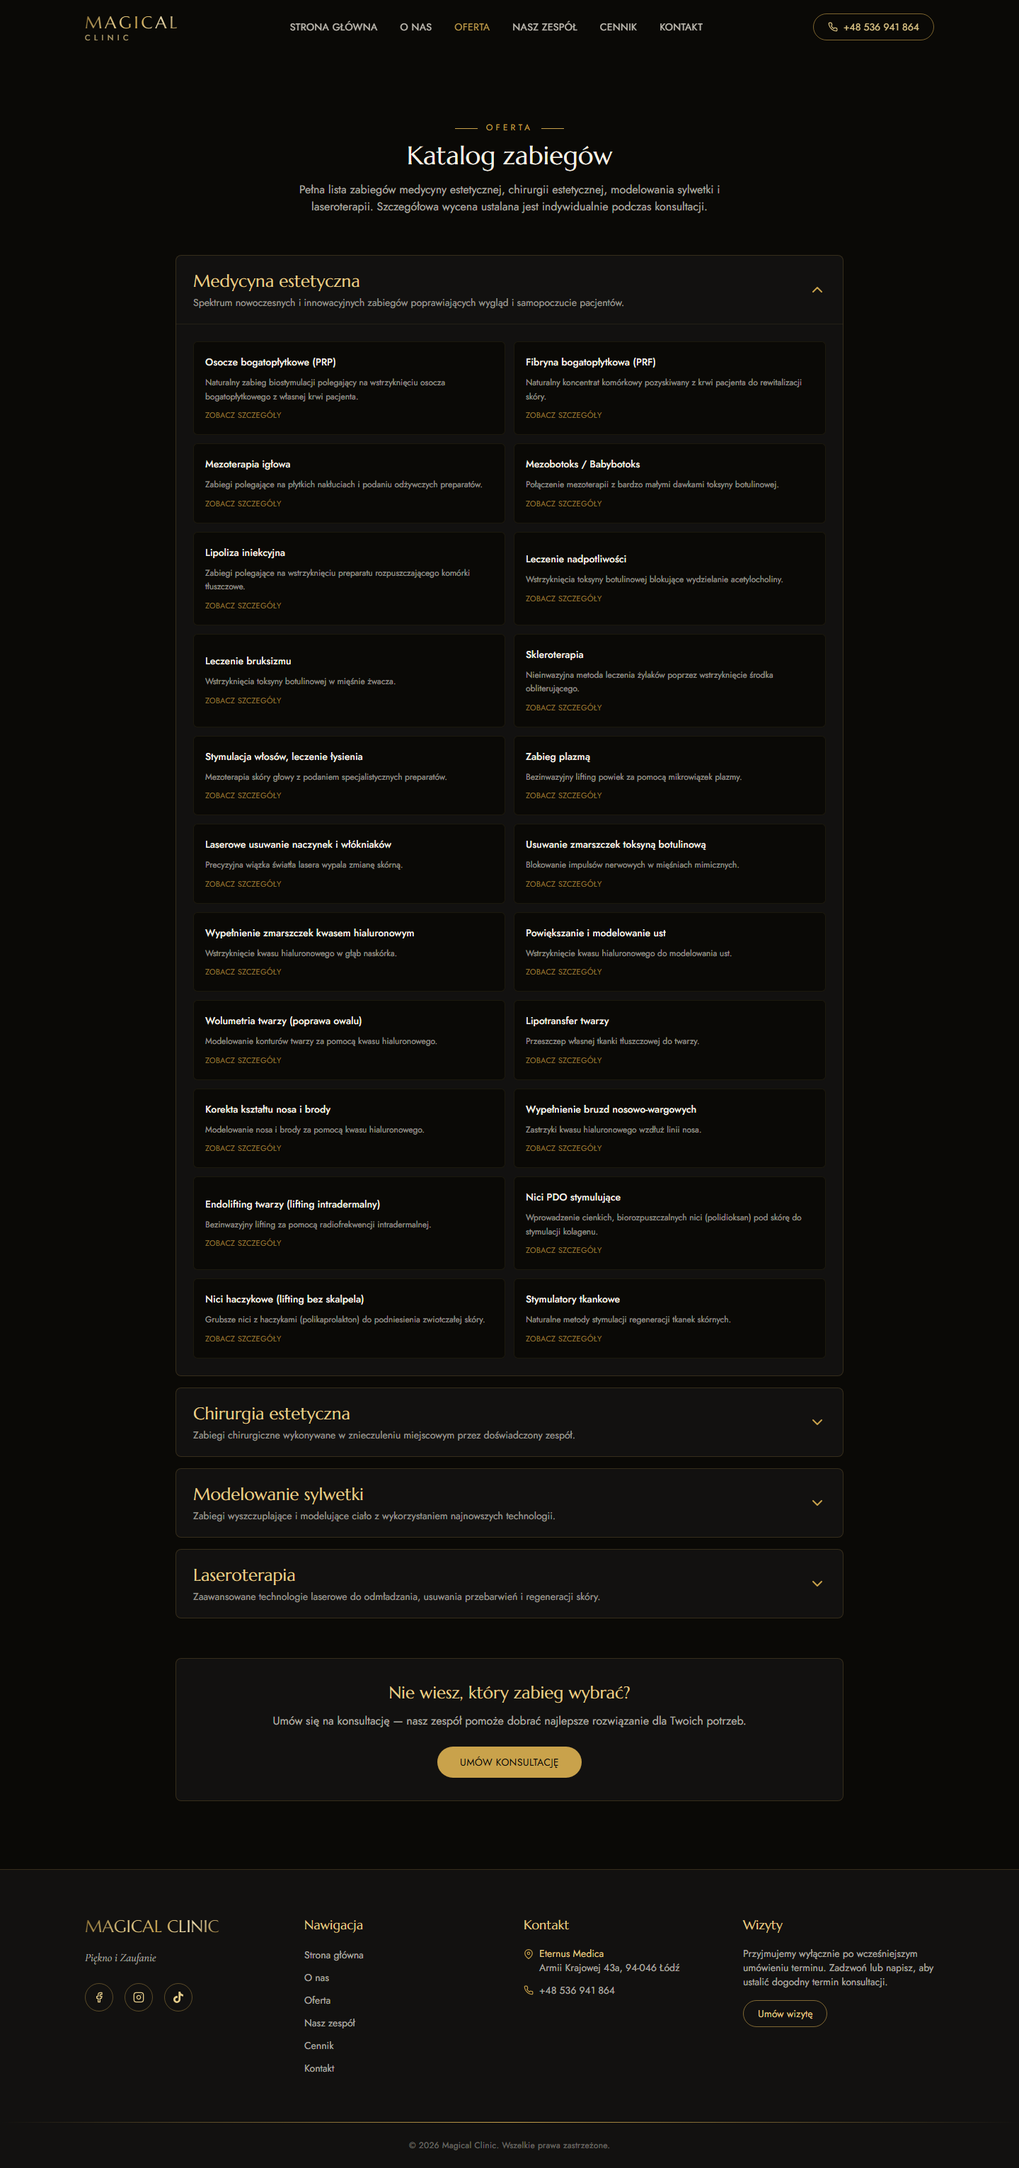
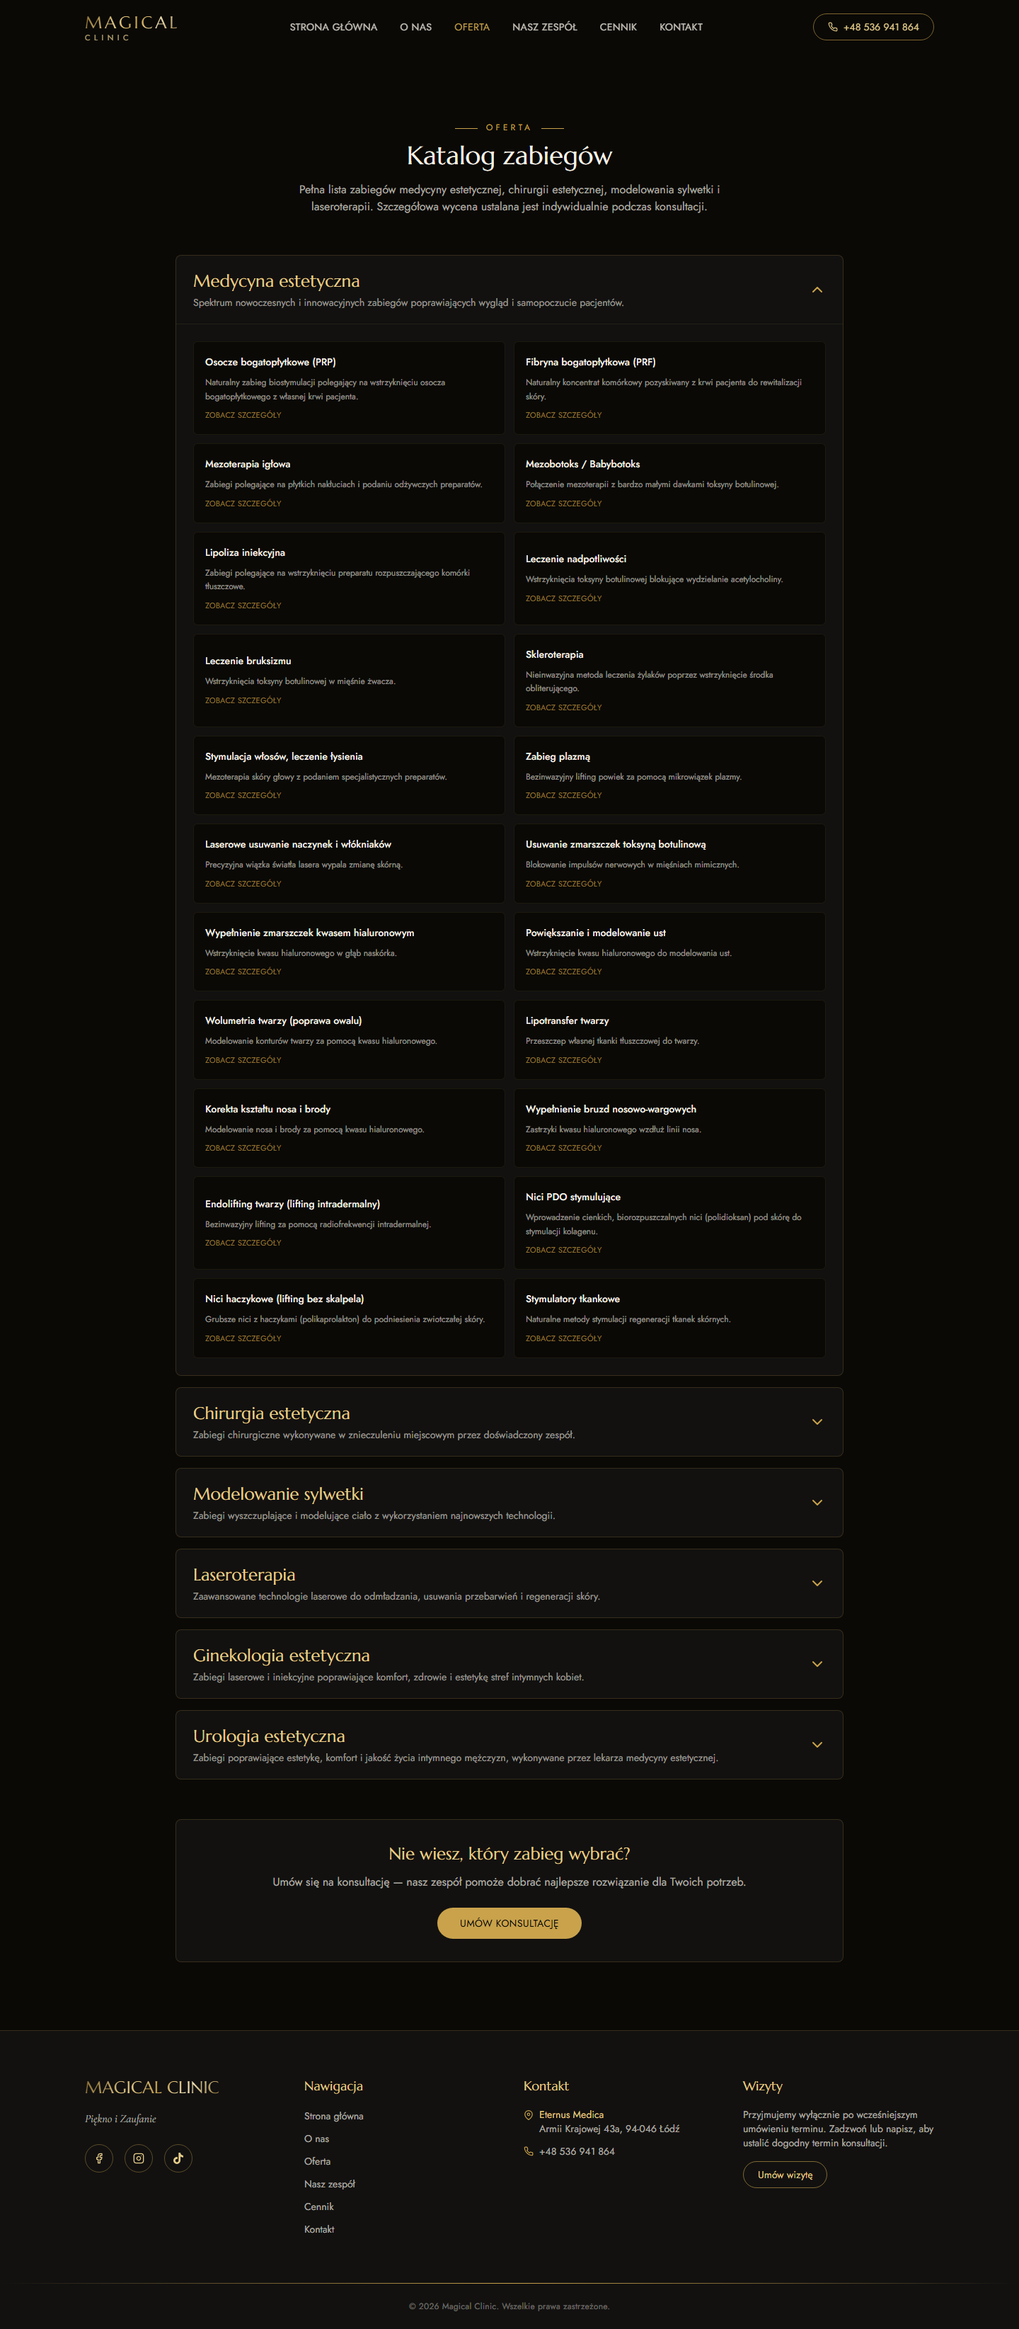
Add aesthetic gynecology and urology categories to Oferta
Restore the two categories that existed on the original WebWave site,
with full treatment descriptions extracted from the source page:
8 gynecology and 6 urology procedures. Offer page now handles
categories with no listed services gracefully.

Also replace the default Vite README with project-specific setup,
editing and deployment instructions.

diff --git a/magical-clinic/src/data/services.ts b/magical-clinic/src/data/services.ts
@@ -421,6 +421,199 @@ export const serviceCategories: ServiceCategory[] = [
       },
     ],
   },
+  {
+    id: 'ginekologia-estetyczna',
+    title: 'Ginekologia estetyczna',
+    intro:
+      'Zabiegi laserowe i iniekcyjne poprawiające komfort, zdrowie i estetykę stref intymnych kobiet.',
+    services: [
+      {
+        name: 'Rewitalizacja pochwy',
+        description:
+          'Zabieg wykonywany laserem Erbowo-Yagowym, przeznaczonym do pracy z najdelikatniejszymi partiami ciała. Polega na ogrzaniu tkanki i zawartego w niej kolagenu, który kurczy się i przebudowuje.',
+        details: [
+          'Efekty: zwiększenie napięcia i elastyczności pochwy, znaczna poprawa jędrności oraz wzrost satysfakcji seksualnej',
+          'Przebieg: do pochwy wprowadzana jest dedykowana głowica, przez którą wiązka lasera naświetla błonę śluzową oraz okolicę przedsionka pochwy',
+          'Wskazania: spadek napięcia i rozluźnienie pochwy spowodowane porodami lub procesem starzenia się',
+          'Zabiegi wykonywane są w pierwszej połowie cyklu, po menstruacji. Zabieg bezbolesny i bezpieczny, nie wymaga dodatkowych procedur przedzabiegowych',
+          'Przeciwwskazania: ciąża, karmienie piersią, choroba nowotworowa, infekcja pochwy, nieprawidłowy wynik cytologii, padaczka, choroby autoimmunologiczne, nieuregulowana cukrzyca',
+        ],
+        priceExample: '1500–2500 zł',
+      },
+      {
+        name: 'Leczenie nietrzymania moczu',
+        description:
+          'Laseroterapia polegająca na fototermicznym, nieablacyjnym obkurczeniu pochwy laserem Er:YAG z dedykowaną głowicą, wzmacniającym obszar ujścia cewki moczowej, ścianek pochwy oraz powięzi wewnątrzmiednicznej.',
+        details: [
+          'Efekty: obkurczenie tkanek, zmniejszenie kąta nachylenia cewki moczowej i przywrócenie jej normalnej funkcjonalności',
+          'Wskazania: nietrzymanie moczu podczas kichnięcia czy kaszlu, po naturalnym porodzie lub po menopauzie, osłabienie mięśni dna miednicy (mięśni Kegla)',
+          'Metoda bezbolesna i mało inwazyjna, nie wymaga znieczulenia',
+          'Przeciwwskazania: infekcje pochwy, ciąża, połóg, karmienie piersią, choroba nowotworowa, nieprawidłowy wynik cytologii, padaczka, choroby autoimmunologiczne, nieuregulowana cukrzyca',
+        ],
+        priceExample: '1800–3000 zł',
+      },
+      {
+        name: 'Orgasm Shot (O-shot)',
+        description:
+          'Nowoczesny zabieg dla kobiet z wykorzystaniem osocza bogatopłytkowego pozyskanego z krwi własnej pacjentki, wstrzykiwanego w okolice łechtaczki i przednią ścianę pochwy.',
+        details: [
+          'Wskazania: problemy z osiągnięciem orgazmu, ból podczas współżycia, zaburzenia libido',
+          'Pomaga w osiągnięciu orgazmu pochwowego, a także łechtaczkowego',
+          'Zalety: brak ryzyka immunologicznego, powikłań czy uczuleń, wysoka skuteczność i bezpieczeństwo, zabieg bez skalpela, brak okresu rekonwalescencji',
+          'Zabieg wykonywany w znieczuleniu, trwa około 60 minut — po nim pacjentka wraca do codziennych czynności',
+          'Przeciwwskazania: infekcje pochwy, ciąża, połóg, karmienie piersią, choroba nowotworowa, nieprawidłowy wynik cytologii, choroby autoimmunologiczne, nieuregulowana cukrzyca',
+        ],
+        priceExample: '1500–2500 zł',
+      },
+      {
+        name: 'Powiększenie punktu G',
+        description:
+          'Zabieg wykonywany preparatem kwasu hialuronowego przeznaczonego do wypełnienia okolic intymnych. Wysokie stężenie i lepkość preparatu pozwalają osiągnąć trwały efekt objętościowy.',
+        details: [
+          'Efekty: poprawa jakości życia intymnego, zwiększenie intensywności doznań podczas stosunku',
+          'Wskazania: brak satysfakcji ze stosunku, problem z osiągnięciem orgazmu, zmniejszenie punktu G wraz z upływem czasu',
+          'Zabieg bezbolesny, nie wymaga okresu rekonwalescencji',
+          'Przeciwwskazania: infekcje pochwy, ciąża, połóg, karmienie piersią, choroba nowotworowa, nieprawidłowy wynik cytologii, choroby autoimmunologiczne, nieuregulowana cukrzyca',
+        ],
+        priceExample: '1200–2000 zł',
+      },
+      {
+        name: 'Modelowanie warg sromowych',
+        description:
+          'Zabieg wykonywany preparatem kwasu hialuronowego przeznaczonego do okolic intymnych, umożliwiającym korekcję lipoatrofii oraz wypełnienie tkanek.',
+        details: [
+          'Wskazania: wiotka i sucha skóra łechtaczki oraz warg sromowych, częste urazy i otarcia, ból w okolicy sromu, uporczywy świąd okolic intymnych',
+          'Wskazania c.d.: utrata satysfakcji z pożycia seksualnego, oznaki starzenia się okolic intymnych, plastyka i korekta tkanek, korekta asymetrii, lipoatrofia',
+          'Dyskomfort przy jeździe konnej, rowerze, fitnessie i codziennych czynnościach',
+          'Przeciwwskazania: infekcje pochwy, ciąża, połóg, karmienie piersią, choroba nowotworowa, nieprawidłowy wynik cytologii, choroby autoimmunologiczne, nieuregulowana cukrzyca',
+        ],
+        priceExample: '1500–2500 zł',
+      },
+      {
+        name: 'Nawilżanie stref intymnych (PRP i PRF)',
+        description:
+          'Rewitalizacja pochwy osoczem bogatopłytkowym i fibryną bogatopłytkową — wzmacnia efekt laserowego obkurczania pochwy i laserowego leczenia nietrzymania moczu.',
+        details: [
+          'Wskazania: suchość pochwy powodująca dyskomfort podczas aktywności seksualnej, wiotka i sucha skóra okolic intymnych, uszkodzenia pochwy po stanach zapalnych lub zabiegach chirurgicznych',
+          'Działanie: naturalne wzmocnienie tkanek, przyspieszenie regeneracji, przywrócenie prawidłowego ukrwienia, nawilżenia i napięcia',
+          'Zalecane 2–3 zabiegi w miesięcznych odstępach; plan ustalany indywidualnie z lekarzem',
+          'Przy laserowym obkurczaniu pochwy: pierwszy zabieg PRP 7 dni przed laseroterapią, drugi w dniu laseroterapii, trzeci 7–10 dni później',
+          'Przeciwwskazania: infekcje pochwy, ciąża, połóg, karmienie piersią, choroba nowotworowa, nieprawidłowy wynik cytologii, choroby autoimmunologiczne, nieuregulowana cukrzyca',
+        ],
+        priceExample: '800–1500 zł',
+      },
+      {
+        name: 'Usuwanie blizn poporodowych — laser',
+        description:
+          'Zabieg przeprowadzany z użyciem lasera z głowicą Er:YAG. Energia urządzenia redukuje blizny poprzez precyzyjne, stopniowe odparowanie tkanki narosłej w miejscu blizny, bez naruszania zdrowej skóry.',
+        details: [
+          'Efekty: blizna staje się mniej wypukła i coraz mniej wyróżnia się na tle zdrowej skóry',
+          'Skuteczna i mało inwazyjna metoda — podczas każdego z serii zabiegów usuwane jest możliwie najwięcej warstw tkanki bliznowatej',
+          'Normalną reakcją jest miejscowe krwawienie lub wysięk, które stopniowo ustępują',
+          'Przeciwwskazania: ciąża, połóg, karmienie piersią, choroba nowotworowa, nieprawidłowy wynik cytologii, choroby autoimmunologiczne, nieuregulowana cukrzyca',
+        ],
+        priceExample: '600–1200 zł',
+      },
+      {
+        name: 'Wybielanie stref intymnych — laser',
+        description:
+          'Zabieg laserowy rozjaśniający okolice intymne, których ciemniejszy kolor związany jest z nadmiernym nagromadzeniem melaniny w skórze. Dodatkowo ujędrnia i nawilża tkanki.',
+        details: [
+          'Działanie: światło lasera działa bezpośrednio na melaninę, uszkadzając ją, oraz biostymulująco na melanocyty, normując produkcję barwnika',
+          'Efekty widoczne po około dwóch tygodniach',
+          'Procedura w znieczuleniu miejscowym, trwa kilkanaście minut, wykonuje ją lekarz',
+          'Podstawą do wykonania zabiegu jest posiadanie aktualnych wyników cytologii',
+          'Przez kilka dni po wizycie możliwy lekki dyskomfort — pieczenie, zaczerwienienie i obrzęk',
+          'Przeciwwskazania: infekcje pochwy, ciąża, połóg, karmienie piersią, choroba nowotworowa, nieprawidłowy wynik cytologii, padaczka, choroby autoimmunologiczne, nieuregulowana cukrzyca',
+        ],
+        priceExample: '800–1500 zł',
+      },
+    ],
+  },
+  {
+    id: 'urologia-estetyczna',
+    title: 'Urologia estetyczna',
+    intro:
+      'Zabiegi poprawiające estetykę, komfort i jakość życia intymnego mężczyzn, wykonywane przez lekarza medycyny estetycznej.',
+    services: [
+      {
+        name: 'Powiększanie penisa kwasem hialuronowym',
+        description:
+          'Mało inwazyjna alternatywa dla zabiegów chirurgicznych, pozwalająca na realne zwiększenie rozmiarów prącia. Zabieg bezbolesny i bezpieczny, bez ryzyka powikłań chirurgicznych.',
+        details: [
+          'Efekty: zwiększenie długości średnio o 2–4 cm oraz pogrubienie o 3–5 cm — efekt zależy od pierwotnej wielkości penisa',
+          'Efekty natychmiastowe i w pełni przewidywalne, utrzymują się od jednego do dwóch lat; zalecane powtórzenie po ok. 9 miesiącach',
+          'Przebieg: znieczulenie miejscowe, zabieg trwa około 40 minut, preparat wprowadzany pod skórę specjalną igłą',
+          'Po zabiegu możliwe niewielkie zasinienia, zaczerwienienie, obrzęk lub swędzenie; brak blizn pozabiegowych',
+          'Zalecana rezygnacja z aktywności seksualnej i intensywnego wysiłku fizycznego do 4 tygodni',
+          'Przeciwwskazania: choroby zapalne i nowotworowe układu moczowo-płciowego, choroby przewlekłe tkanki łącznej i układu krzepnięcia, niektóre leki, zmiany zapalne i ropne w pachwinach, stulejka, uczulenie na preparat, problemy z potencją',
+        ],
+        priceExample: '4000–7000 zł',
+      },
+      {
+        name: 'Powiększanie penisa własnym tłuszczem',
+        description:
+          'Zabieg mający na celu zwiększenie rozmiaru penisa w dwóch wymiarach — wydłużenie i pogrubienie — z wykorzystaniem tkanki tłuszczowej pacjenta wzbogaconej osoczem bogatopłytkowym i komórkami macierzystymi.',
+        details: [
+          'Przebieg: tłuszcz pobierany zwykle z okolicy brzucha, wzbogacany PRP oraz komórkami macierzystymi, dzięki czemu przyjmuje się znacznie więcej przeszczepionej tkanki',
+          'Komórki macierzyste dogłębnie rewitalizują ciało jamiste i gąbczaste prącia — w okresie do 3 miesięcy zwiększa się skuteczność wzwodów',
+          'Przeszczepiony tłuszcz wchłania się częściowo do ok. 6 tygodni, pozostaje około 60% przeszczepionej ilości; zabieg można powtórzyć',
+          'Znieczulenie miejscowe, zabieg nie pozostawia blizn',
+          'Po zabiegu powrót do codziennych czynności od razu; zalecana abstynencja seksualna 3–4 tygodnie',
+          'Dla optycznego uwydatnienia zalecane zabiegi dodatkowe: liposukcja wzgórka łonowego lub podbrzusza',
+        ],
+        priceExample: '6000–10 000 zł',
+      },
+      {
+        name: 'Powiększanie penisa kwasem polimlekowym (Lenisna)',
+        description:
+          'LENISNA to wypełniacz hybrydowy łączący natychmiastowy efekt wypełnienia kwasem hialuronowym (HA) z długotrwałą stymulacją produkcji kolagenu dzięki kwasowi polimlekowemu (PDLLA).',
+        details: [
+          'Efekt widoczny od razu po zabiegu; wypełnienie utrzymuje się do momentu, gdy zaczyna dominować produkcja nowego kolagenu i elastyny',
+          'Cechy: jedyna na świecie formuła hybrydy Poly D,L Lactyd + HA o wielkości cząsteczek 50–60 mikrometrów, skuteczność potwierdzona badaniami klinicznymi, certyfikaty FDA i CE',
+          'Wskazania: niezadowolenie z grubości i obwodu prącia, brak satysfakcji seksualnej partnerki',
+          'Przebieg: znieczulenie miejscowe, zabieg trwa około 40 minut',
+          'Zalecana rezygnacja z aktywności seksualnej i intensywnego wysiłku fizycznego do 3–4 tygodni',
+          'Przeciwwskazania: choroby zapalne i nowotworowe układu moczowo-płciowego, choroby przewlekłe tkanki łącznej i układu krzepnięcia, niektóre leki, zmiany zapalne i ropne w pachwinach, stulejka, uczulenie na preparat, problemy z potencją',
+        ],
+        priceExample: '5000–8000 zł',
+      },
+      {
+        name: 'Scrotoks — relaksacja moszny',
+        description:
+          'Podanie toksyny botulinowej w skórę moszny w celu zrelaksowania jej mięśni. Pomaga przy przypadłościach bólowych w rejonach krocza, a także odmładza skórę i przywraca jej jędrność.',
+        details: [
+          'Efekty: rozluźnienie i wygładzenie skóry moszny, powiększenie i wydłużenie moszny, niższe zawieszenie jąder, większa mobilność jąder, zmniejszenie potliwości, nowe doznania podczas stosunku',
+          'Wskazania: wiotka, pomarszczona skóra moszny, nawracające stany zapalne, dolegliwości bólowe (także mimo leczenia operacyjnego), zwiększona potliwość skóry w okolicy krocza, ograniczone doznania w trakcie stosunku',
+          'Sprawdza się przy schorzeniach mięśni moszny, gdy leczenie chirurgiczne nie przynosi rezultatów, np. przy żylakach powrózka nasiennego',
+          'Zabieg małoinwazyjny, nie wymaga okresu rekonwalescencji',
+          'Przeciwwskazania: opryszczka w miejscu wykonywania zabiegu, przeciwwskazania wskazane przez lekarza',
+        ],
+        priceExample: '1500–2500 zł',
+      },
+      {
+        name: 'P-shot — wzmocnienie doznań',
+        description:
+          'Zabieg wzmagający erekcję oraz wspierający leczenie przedwczesnego wytrysku. Pobrane od pacjenta osocze bogatopłytkowe wstrzykiwane jest do ciał jamistych i okolicy główki penisa.',
+        details: [
+          'Zabieg w znieczuleniu miejscowym',
+          'Nie jest wymagane wcześniejsze przygotowanie pacjenta',
+        ],
+        priceExample: '1500–2500 zł',
+      },
+      {
+        name: 'Rewitalizacja skóry miejsc intymnych',
+        description:
+          'Zabieg oparty na wysokiej koncentracji płytek krwi, które uwalniają w miejscu podania liczne czynniki wzrostu, doprowadzając do intensywnej reakcji regeneracji tkanek.',
+        details: [
+          'Efekty: poprawa stanu skóry — odzyskuje młody, zdrowy wygląd',
+          'Skóra staje się bardziej napięta, jędrna, odżywiona i nawilżona',
+          'Wyrównanie kolorytu skóry oraz jej przebudowa',
+        ],
+        priceExample: '800–1500 zł',
+      },
+    ],
+  },
 ]
 
 export interface TeamMember {

diff --git a/magical-clinic/src/pages/Offer.tsx b/magical-clinic/src/pages/Offer.tsx
@@ -45,6 +45,20 @@ export default function Offer() {
                   animate={{ height: isOpen ? 'auto' : 0 }}
                   className="overflow-hidden"
                 >
+                  {category.services.length === 0 ? (
+                    <div className="border-t border-gold/10 p-6 text-center">
+                      <p className="text-sm text-cream/60">
+                        Szczegółowa lista zabiegów w tej kategorii ustalana jest indywidualnie —
+                        zapytaj podczas konsultacji.
+                      </p>
+                      <Link
+                        to="/kontakt"
+                        className="mt-4 inline-block rounded-full border border-gold/40 px-5 py-2 text-xs uppercase tracking-wide text-gold-light transition-colors hover:bg-gold/10"
+                      >
+                        Zapytaj o ofertę
+                      </Link>
+                    </div>
+                  ) : (
                   <div className="grid gap-3 border-t border-gold/10 p-6 sm:grid-cols-2">
                     {category.services.map((service) => {
                       const key = `${category.id}-${service.name}`
@@ -76,6 +90,7 @@ export default function Offer() {
                       )
                     })}
                   </div>
+                  )}
                 </motion.div>
               </div>
             )

diff --git a/magical-clinic/README.md b/magical-clinic/README.md
@@ -1,32 +1,58 @@
-# React + TypeScript + Vite
+# Magical Clinic — strona internetowa
 
-This template provides a minimal setup to get React working in Vite with HMR and some Oxlint rules.
+Strona magicalclinic.pl zbudowana w Vite + React + TypeScript + Tailwind CSS. Wdrażana automatycznie
+na Vercel po każdym pushu do gałęzi `main` na GitHubie.
 
-Currently, two official plugins are available:
+## Jak uruchomić stronę lokalnie
 
-- [@vitejs/plugin-react](https://github.com/vitejs/vite-plugin-react/blob/main/packages/plugin-react) uses [Oxc](https://oxc.rs)
-- [@vitejs/plugin-react-swc](https://github.com/vitejs/vite-plugin-react/blob/main/packages/plugin-react-swc) uses [SWC](https://swc.rs/)
+Wymagany [Node.js](https://nodejs.org) (LTS).
 
-## React Compiler
-
-The React Compiler is not enabled on this template because of its impact on dev & build performances. To add it, see [this documentation](https://react.dev/learn/react-compiler/installation).
-
-## Expanding the Oxlint configuration
-
-If you are developing a production application, we recommend enabling type-aware lint rules by installing `oxlint-tsgolint` and editing `.oxlintrc.json`:
-
-```json
-{
-  "$schema": "./node_modules/oxlint/configuration_schema.json",
-  "plugins": ["react", "typescript", "oxc"],
-  "options": {
-    "typeAware": true
-  },
-  "rules": {
-    "react/rules-of-hooks": "error",
-    "react/only-export-components": ["warn", { "allowConstantExport": true }]
-  }
-}
+```bash
+cd magical-clinic
+npm install       # tylko za pierwszym razem / po zmianie zależności
+npm run dev
 ```
 
-See the [Oxlint rules documentation](https://oxc.rs/docs/guide/usage/linter/rules) for the full list of rules and categories.
+Otwórz **http://localhost:5173** w przeglądarce. Zmiany w plikach `.tsx`/`.ts`/`.css` odświeżają się
+automatycznie (hot reload) — nie trzeba restartować serwera.
+
+## Gdzie edytować treść
+
+| Co chcesz zmienić | Plik |
+| --- | --- |
+| Teksty, zabiegi, ceny, dane kontaktowe, opinie | `src/data/services.ts` |
+| Kolory, fonty | `src/index.css` |
+| Menu górne | `src/components/Navbar.tsx` |
+| Stopka | `src/components/Footer.tsx` |
+| Strona główna | `src/pages/Home.tsx` |
+| O nas | `src/pages/About.tsx` |
+| Oferta (katalog zabiegów) | `src/pages/Offer.tsx` |
+| Cennik | `src/pages/Pricing.tsx` |
+| Nasz zespół | `src/pages/Team.tsx` |
+| Kontakt | `src/pages/Contact.tsx` |
+
+## Jak wprowadzić zmianę i wysłać ją na żywą stronę
+
+1. Edytuj pliki, sprawdź efekt na `npm run dev`
+2. Upewnij się, że build przechodzi bez błędów: `npm run build`
+3. Wypchnij zmiany na GitHub:
+
+   ```bash
+   git add -A
+   git commit -m "Opis zmiany"
+   git push origin main
+   ```
+
+4. Vercel automatycznie wykrywa push, buduje i wdraża nową wersję — zwykle w ciągu ~1 minuty,
+   bez żadnej dodatkowej akcji. Po chwili zmiana jest widoczna na **magicalclinic.pl**.
+
+## Zrzuty ekranu (Playwright)
+
+Do szybkiego podglądu wszystkich podstron bez otwierania przeglądarki:
+
+```bash
+npm run screenshot
+```
+
+Zapisuje pliki PNG do folderu `screenshots/` (wymaga uruchomionego `npm run dev` w tle oraz
+zainstalowanego Playwrighta: `npx playwright install chromium`).
